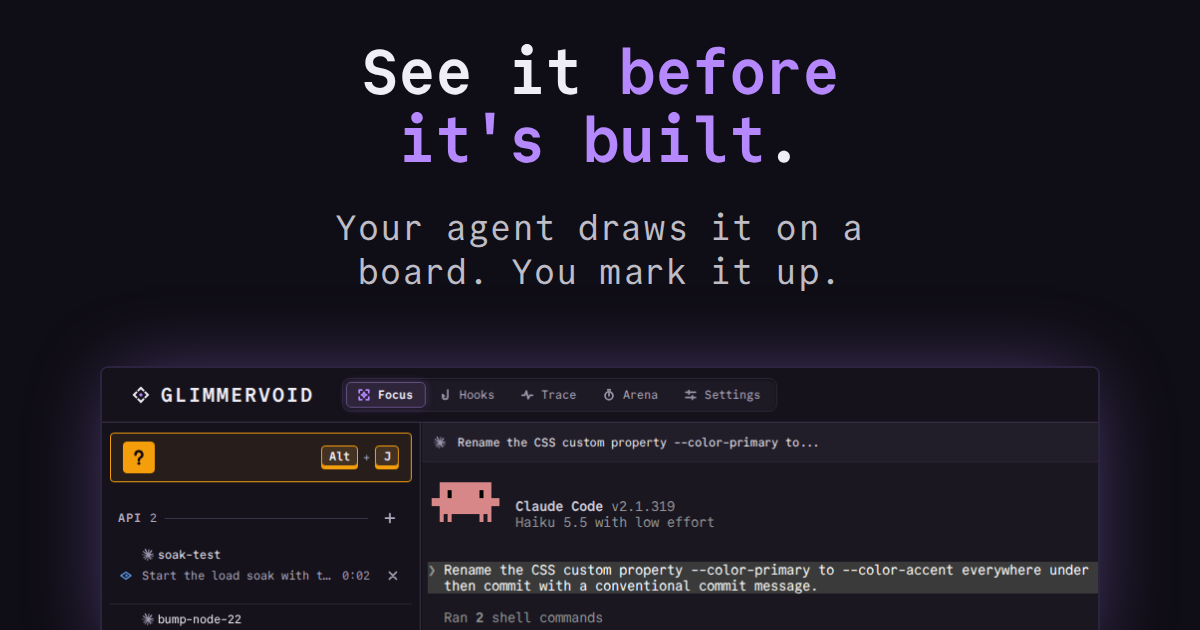
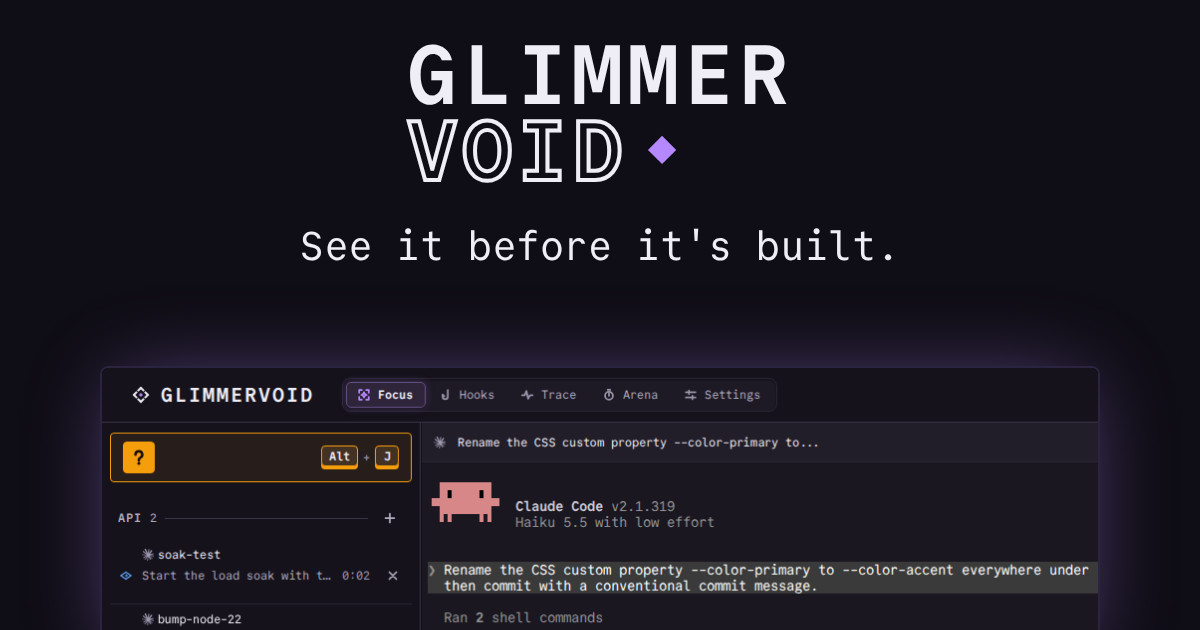
feat(site): carry the stacked wordmark across the site and link image
One Wordmark component now sets GLIMMER solid and VOID outlined for the
/next/ hero and footer (stacked, violet accent diamond) and the site nav
(inline). The link image is rebuilt around the same lockup with the
line "See it before it's built.", and its alt text is updated in the
manifest and in Base.astro's og:image:alt. The brand bible records the
stacked variant and the site lockup, keeps the dashboard's solid 0.1em
wordmark as is, and forbids a state color on the diamond.

The board demo surface, the Arena diagram and the Sane YOLO net drop
their card frame so illustrations sit bare beside the hero; product
mockups (attention board, packs) keep theirs.

Confidence: high
Scope-risk: narrow

Changed region(s): [[0.3083, 0.0603, 0.7092, 0.3016], [0.2467, 0.3317, 0.74, 0.4524]]

diff --git a/marketing/social/templates/link-card.html b/marketing/social/templates/link-card.html
@@ -11,9 +11,11 @@ body {
 }
 main { position: absolute; inset: 0 var(--safe-right) 0 var(--safe-left); padding-top: calc(var(--canvas-height) * .06); display: flex; flex-direction: column; align-items: center; text-align: center; gap: calc(var(--canvas-height) * .05); }
 p, h1 { margin: 0; text-wrap: balance; }
-h1 { font-family: var(--brand-display-family), monospace; font-weight: var(--brand-display-weight, 700); font-size: calc(var(--min-text-size) * 1.8); line-height: 1.08; letter-spacing: -0.02em; }
-h1 em { font-style: normal; color: var(--brand-accent); }
-.subline { font-size: var(--min-text-size); line-height: 1.3; color: color-mix(in srgb, var(--brand-ink) 78%, var(--brand-background)); }
+h1 { font-family: var(--brand-display-family), monospace; font-weight: var(--brand-display-weight, 700); font-size: calc(var(--min-text-size) * 2.4); line-height: .9; letter-spacing: .06em; text-transform: uppercase; text-align: left; }
+h1 span { display: block; width: fit-content; }
+h1 .void { position: relative; color: transparent; -webkit-text-stroke: 2px var(--brand-ink); }
+h1 .void::after { content: ""; position: absolute; left: calc(100% + .3em); top: 36%; width: .24em; height: .24em; rotate: 45deg; background: var(--brand-accent); }
+.subline { font-size: calc(var(--min-text-size) * 1.15); line-height: 1.3; color: var(--brand-ink); }
 .window {
   position: absolute; left: 50%; bottom: calc(var(--canvas-height) * -.06); transform: translateX(-50%);
   width: 500px; border: 1px solid #2a2440; border-radius: 4px; overflow: hidden;
@@ -24,7 +26,7 @@ h1 em { font-style: normal; color: var(--brand-accent); }
 </head>
 <body>
 <main>
-<h1>See it <em>before it's built</em>.</h1>
+<h1><span>Glimmer</span><span class="void">void</span></h1>
 <p class="subline" data-slot="subline"></p>
 </main>
 <div class="window"><img data-slot="image" alt=""></div>

diff --git a/site/src/styles/global.css b/site/src/styles/global.css
@@ -29,12 +29,11 @@ p { margin: 0; }
 .reveal { animation: rise linear both; animation-timeline: view(); animation-range: entry 0% entry 60%; }
 @keyframes rise { from { opacity: 0.25; transform: translateY(18px); } to { opacity: 1; transform: none; } }
 
-.diagram { width: 100%; overflow-x: auto; border: 1px solid var(--border); border-radius: var(--radius-lg); background: var(--bg-card); padding: 18px; }
+.diagram { width: 100%; overflow-x: auto; }
 .diagram svg { display: block; width: 100%; min-width: 640px; height: auto; }
 .diagram text { font-family: var(--font-mono); }
 .diagram svg.diagram-compact { display: none; }
 @media (max-width: 640px) {
-  .diagram { padding: 10px; }
   .diagram svg.diagram-wide { display: none; }
   .diagram svg.diagram-compact { display: block; min-width: 0; max-width: 340px; margin-inline: auto; }
 }
